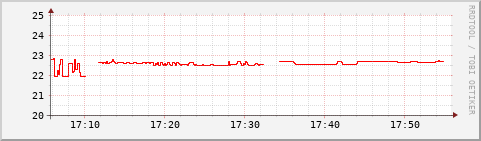
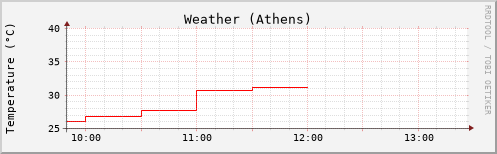
Update RRDtool graph plot

diff --git a/plotting-graphical-data-using-rrdtool-and-a-python-collectd-plugin.html b/plotting-graphical-data-using-rrdtool-and-a-python-collectd-plugin.html
@@ -131,7 +131,7 @@ $ systemctl <span class="nb">enable</span> collectd
 </code></pre></div>
 <p>And then proceed with creating the graph:</p>
 <div class="highlight"><pre><span></span><code><span class="err">rrdtool graph weather.png \             # (1)</span>
-<span class="err">  --title "Weather" \                   # (2)</span>
+<span class="err">  --title "Weather (Athens)" \          # (2)</span>
 <span class="err">  --vertical-label "Temperature (°C)" \ # (3)</span>
 <span class="err">  --start now-8000s --end now \         # (4)</span>
 <span class="err">  DEF:a=temperature.rrd:value:AVERAGE   # (5)</span>
